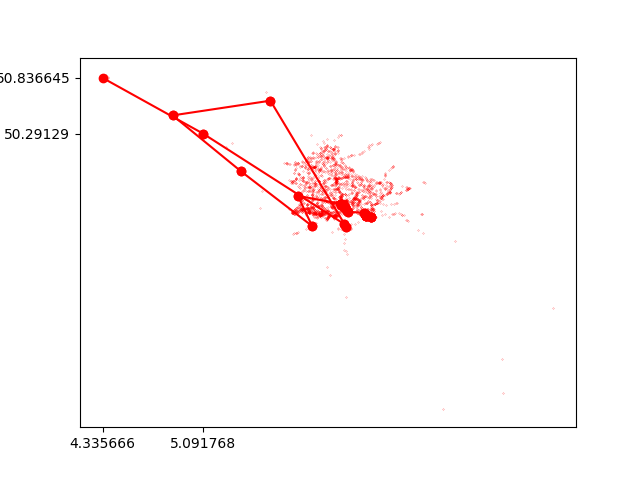
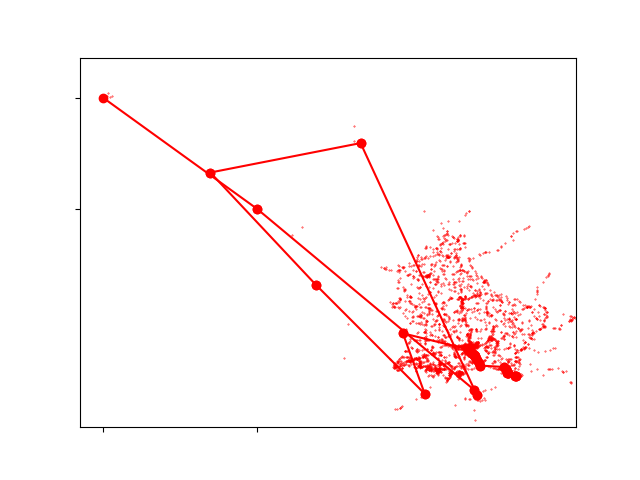
salvataggio grafici corretti

diff --git a/Lab2/Main.py b/Lab2/Main.py
@@ -105,12 +105,12 @@ def main():
             print("arco da ", arco.id_departure_station, " a ", arco.id_arrival_station, "\tOrario partenza: ",
                   arco.departure_time, "\tOrario Arrivo: ", arco.arrival_time)
     '''
-    #array = [(500000079, 300000044, "01300")]
+    array = [(500000079, 300000044, "01300")]
     #array = [(200415016, 200405005, "00930")]
     #array = [(300000032, 400000122, "00530")]
     #array = [(210602003, 300000030, "00630")]
     #array = [(200417051, 140701016, "01200")]
-    array = [(200417051, 140701016, "02355")]
+    #array = [(200417051, 140701016, "02355")]
 
 
 
@@ -189,18 +189,17 @@ def plotPath(previous_path, graph):
         if i.posX != 0 and i.posY != 0:
             latitude.append(i.posX/6)
             longitude.append(i.posY/49.5)
-    plt.scatter(latitude, longitude, marker='.', c='r', s=0.1)
+    plt.scatter(latitude, longitude, marker='.', c='r', s=0.5)
     j = previous_path[-1]
 
     for i, val in enumerate(reversed(previous_path)):
         if i != j:
             x1, y1 = graph.nodes_list[val].posX/6, graph.nodes_list[val].posY/49.5
             x2, y2 = graph.nodes_list[j].posX/6, graph.nodes_list[j].posY/49.5
-            plt.xticks([x1, x2], [x1 * 6, x2 * 6])
-            plt.yticks([y1, y2], [y1 * 49.5, y2 * 49.5])
+            plt.xticks([x1, x2], "" )
+            plt.yticks([y1, y2], "")
             plt.plot([x1, x2], [y1, y2], 'ro-')
             j = val
-    plt.savefig("200417051 to 140701016 night.png")
     plt.show()
 
 
